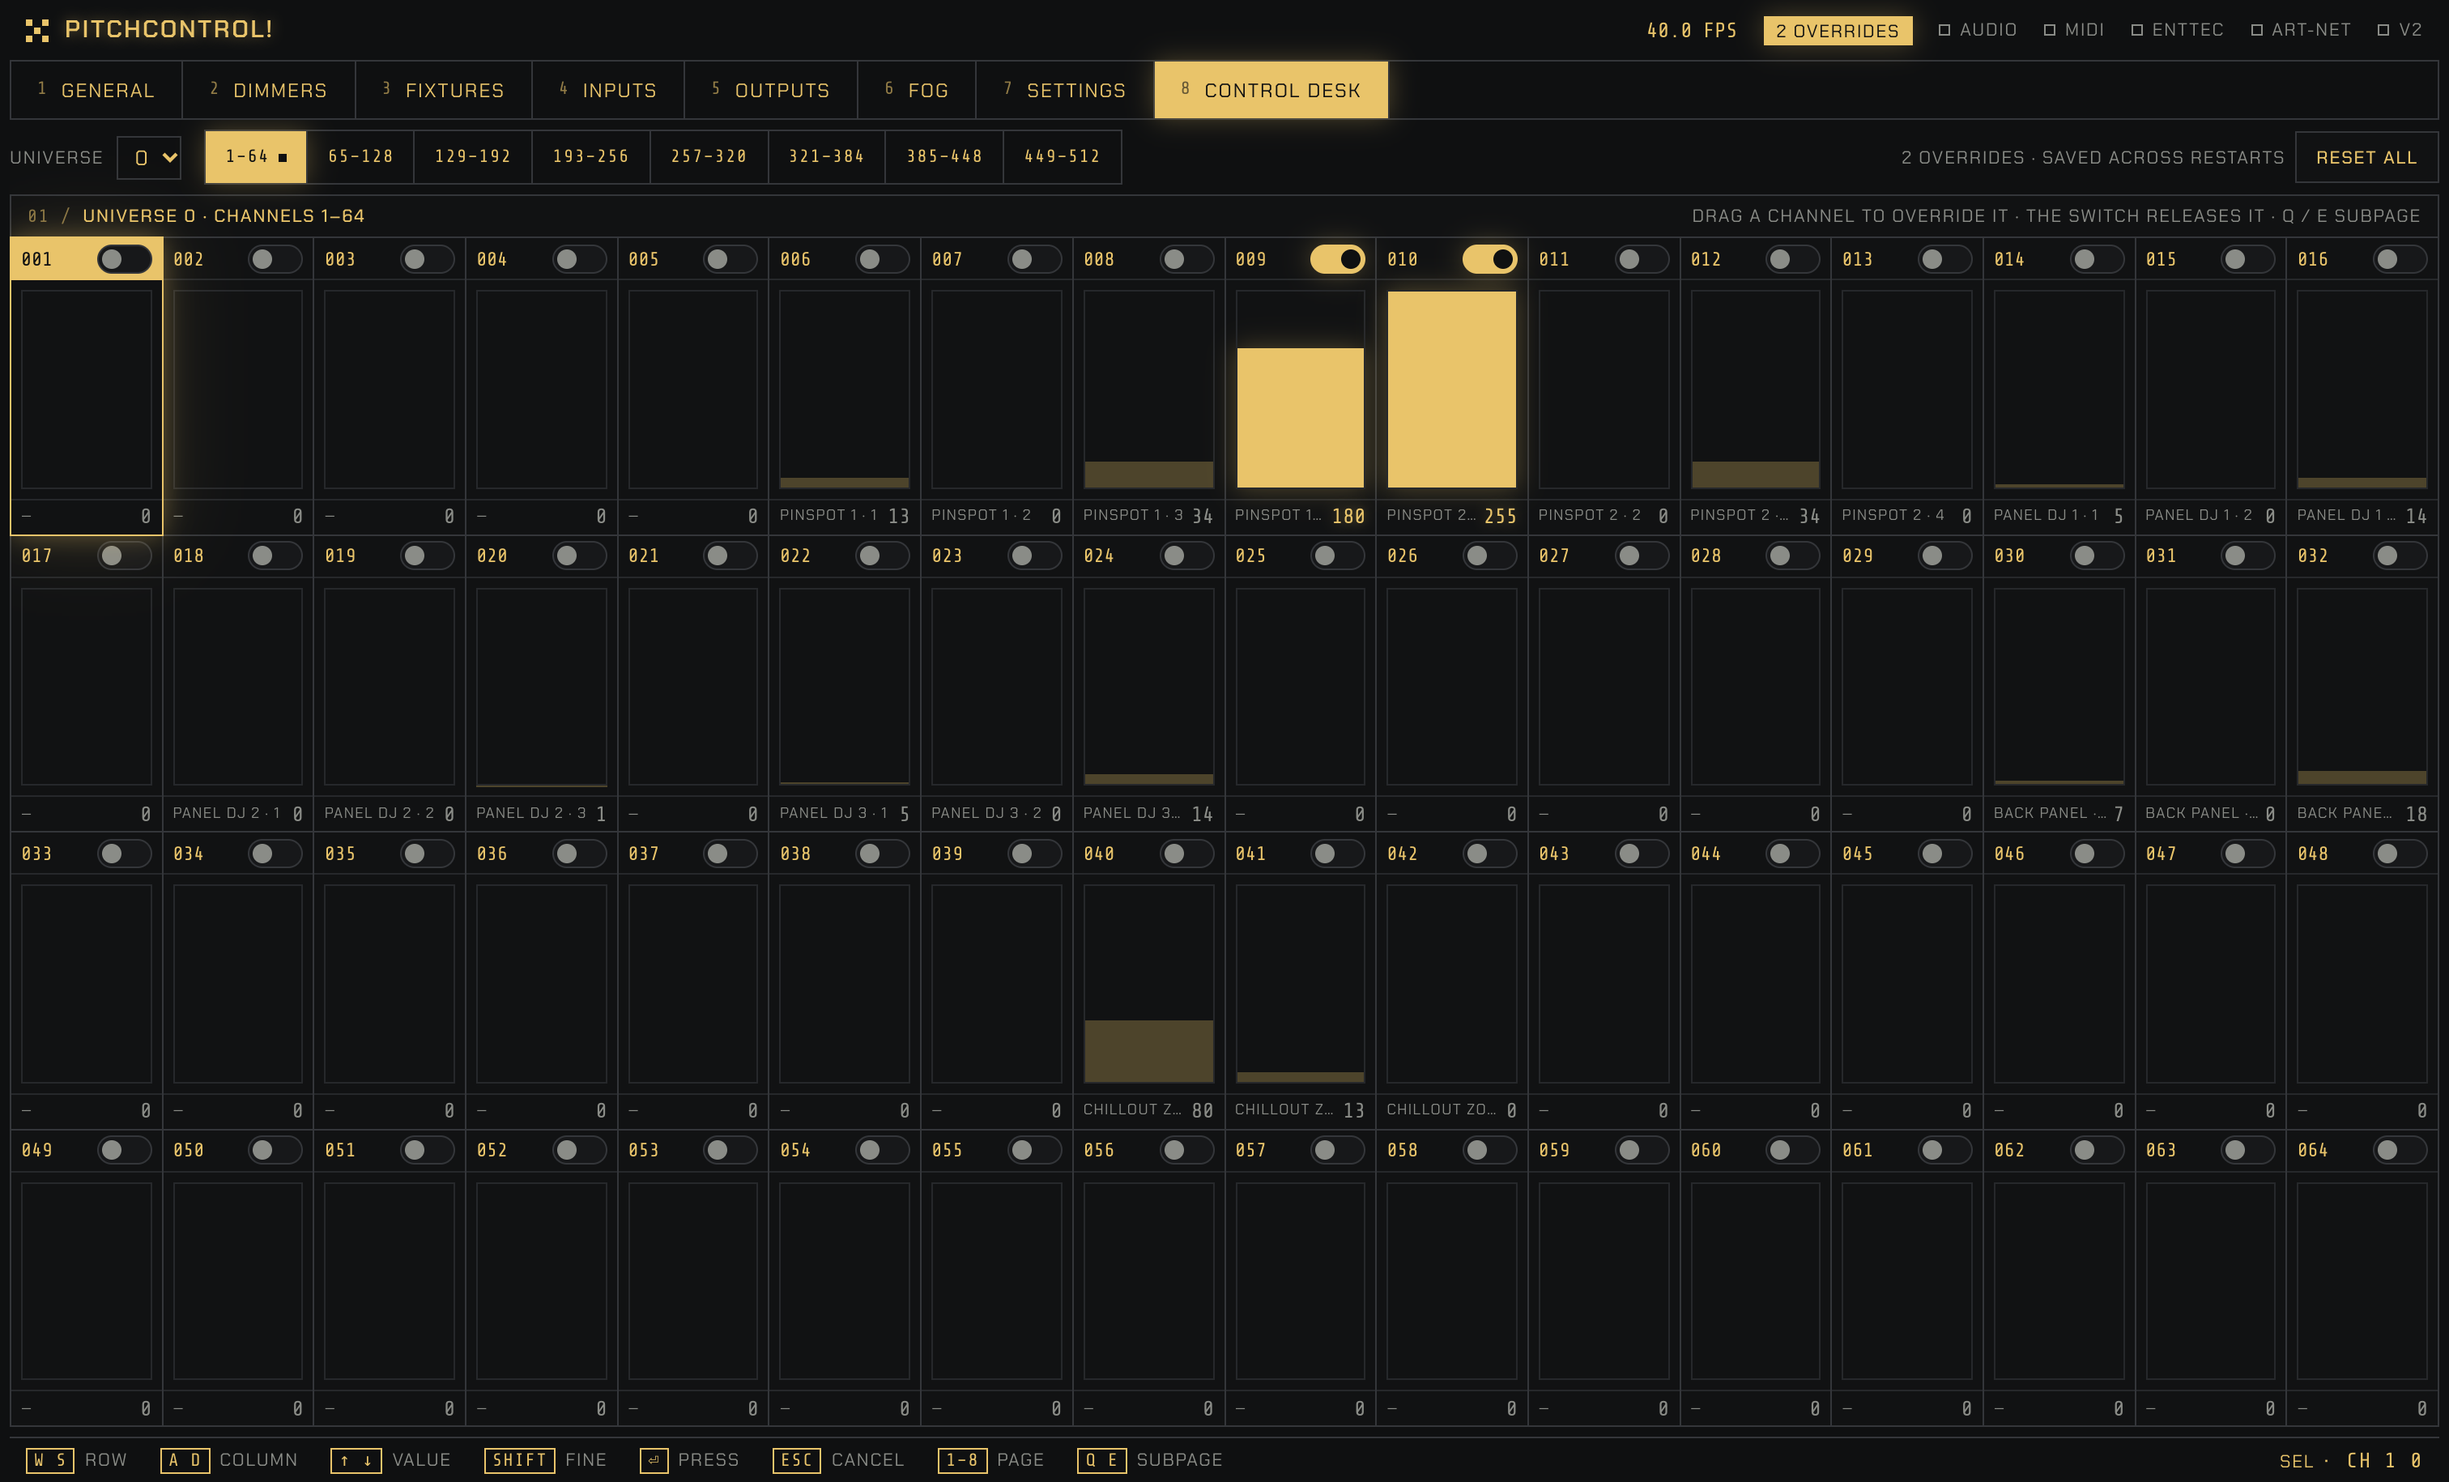
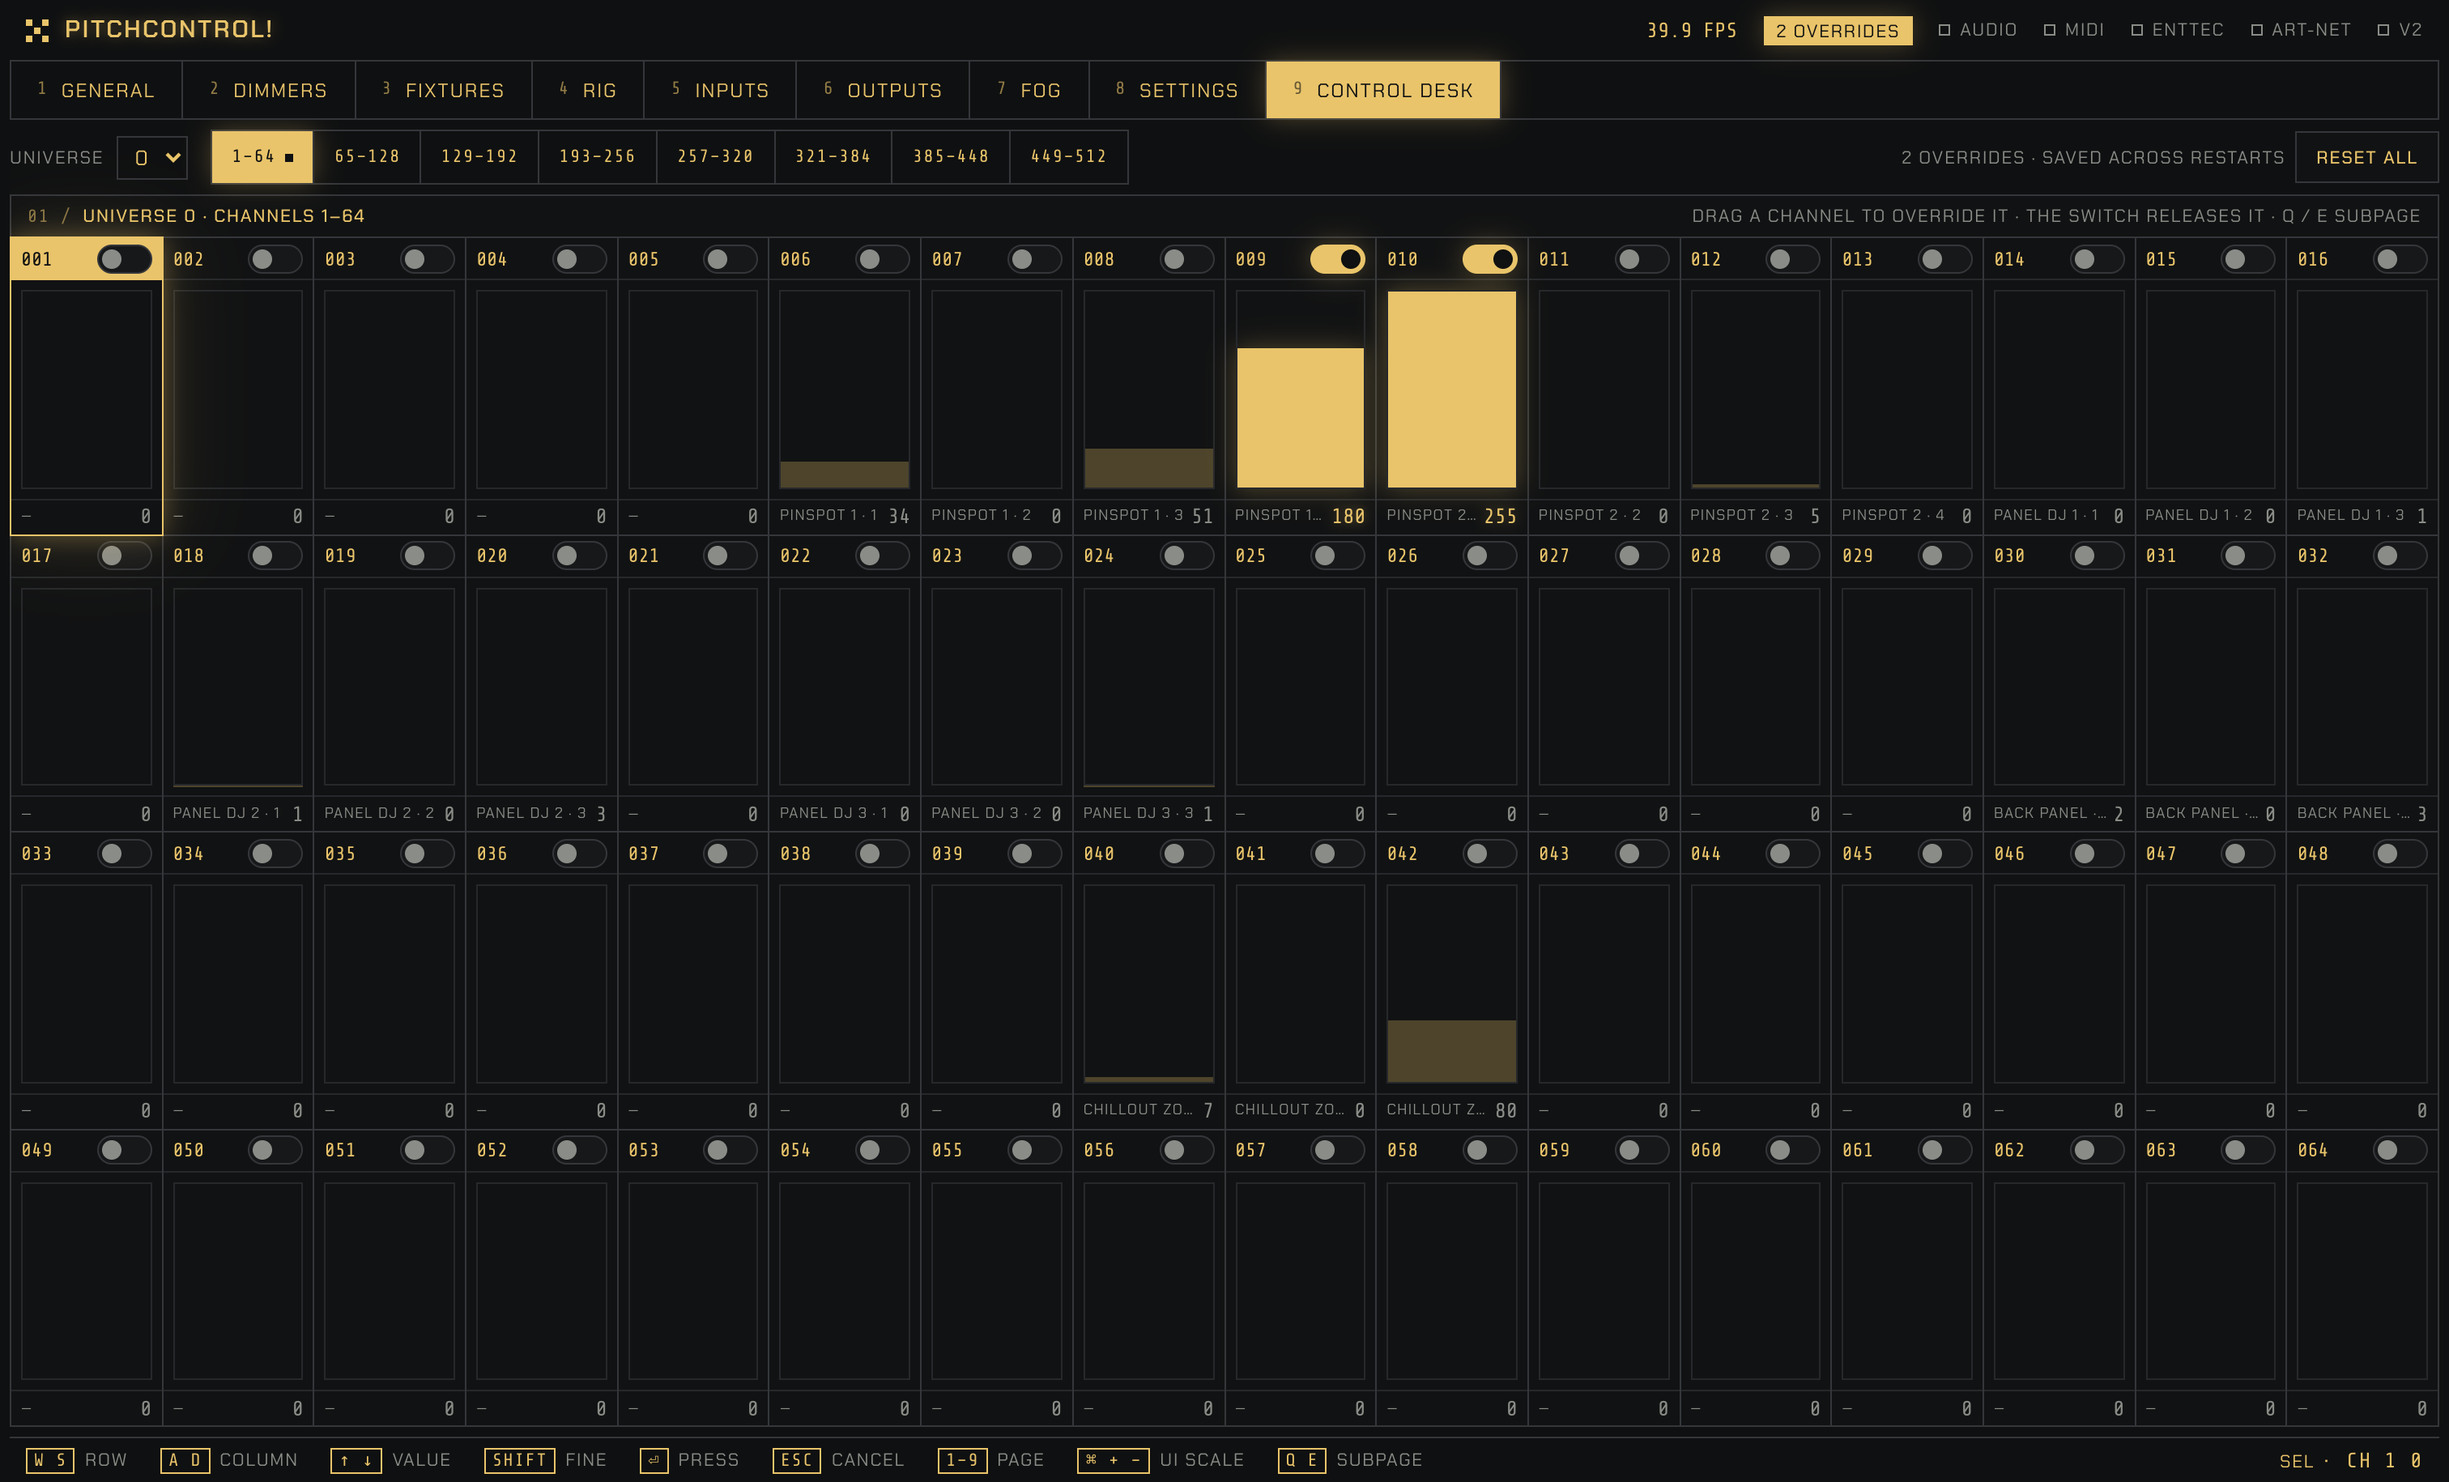
PitchControl: first start begins with scene 1; screenshots and READMEs updated

diff --git a/pitch_control/backend/tests/test_engine_api.py b/pitch_control/backend/tests/test_engine_api.py
@@ -202,3 +202,29 @@ def test_fixture_type_management(store):
     # delete: refused while used, fine otherwise
     assert client.delete("/api/fixture-types/renamed").status_code == 409
     assert client.delete("/api/fixture-types/Spot").json()["ok"] and "Spot" not in store.fixture_types
+
+
+def test_first_start_begins_with_scene_1(store):
+    # no state/macros.json yet (it is not in the repo): scene 1, not every fader at 0
+    engine = Engine(store, enable_hardware=False)
+    scene = store.load_scene(0)
+    assert scene is not None
+    assert engine.macros.control("Strobo Brightness") == scene.values["Strobo Brightness"] == 1.0
+    assert engine.macros.control("Strobo Decay") == scene.values["Strobo Decay"]
+    assert engine.macros.control("Saturation A") == 1.0  # not part of the scenes: its own default
+
+
+def test_saved_macro_values_win_over_scene_1(store):
+    first = Engine(store, enable_hardware=False)
+    first.macros.set("Strobo Brightness", 0.25)
+    first._autosave_macros(force=True)
+    again = Engine(store, enable_hardware=False)
+    assert again.macros.control("Strobo Brightness") == 0.25
+
+
+def test_first_start_without_scenes_uses_the_defaults(store):
+    for f in store.scenes_dir.glob("scene_*.json"):
+        f.unlink()
+    engine = Engine(store, enable_hardware=False)
+    assert engine.macros.control("Strobo Brightness") == 0.0
+    assert engine.macros.control("Dimmer 01") == 1.0

diff --git a/pitch_control/backend/src/pitchcontrol/engine/engine.py b/pitch_control/backend/src/pitchcontrol/engine/engine.py
@@ -240,6 +240,11 @@ class Engine:
             if state is not None:
                 self.macros.load(state.values, source=str(path))
                 log.info("restored macro values from %s", path)
+                return
+        # first start (the state folder is not in the repo): begin with scene 1, not with every
+        # fader at 0, which would be a dark room until somebody moves the brightness faders
+        if self.load_scene(0):
+            log.info("no saved macro values: started with scene 1")
 
     def _autosave_macros(self, force: bool = False) -> None:
         now = time.monotonic()

diff --git a/pitch_control/README.md b/pitch_control/README.md
@@ -4,12 +4,12 @@ Audio-reactive light control for PitchPlease, a cross-platform (macOS / Windows)
 The design and the reverse-engineered vvvv logic are documented in the wiki: [PitchControl design](../docs/wiki/port-design.md) and [vvvv patch logic](../docs/wiki/vvvv-patch-logic.md).
 
 - **Backend** (`backend/`, Python): the engine, which runs at 40 FPS in its own thread and owns audio, MIDI and all outputs. It keeps running if the browser is closed.
-- **Frontend** (`frontend/`, Vite + React + TypeScript + Tailwind): the pages General, Dimmers, Fixtures, Inputs, Outputs, Fog, Settings and Control Desk. It talks to the backend over HTTP and a WebSocket.
+- **Frontend** (`frontend/`, Vite + React + TypeScript + Tailwind): the pages General, Dimmers, Fixtures, Rig, Inputs, Outputs, Fog, Settings and Control Desk. It talks to the backend over HTTP and a WebSocket.
 - **Config** (`config/`): plain JSON, edited from the UI or by hand.
 
 ## Pages
 
-Keys 1–9 switch between the pages. Everything can be operated from the keyboard (see [Using the UI](#using-the-ui)). The screenshots were taken at the 1512 × 915 design size with amber ink, without hardware connected (so audio, MIDI and the Enttec show as off), with a synthetic techno loop feeding the audio analysis.
+Keys 1–9 switch between the pages. Everything can be operated from the keyboard (see [Using the UI](#using-the-ui)). The screenshots were taken at the 1512 × 915 design size with amber ink, without hardware connected (so audio, MIDI and the Enttec show as off), with a synthetic techno loop feeding the audio analysis. The footer at the bottom of every page shows the keys for the control under the mouse and a short explanation of it; the screenshots show it without a hovered control. On a first start the macros begin with the values of scene 1.
 
 ### 1 · General
 
@@ -46,7 +46,7 @@ Edits apply to the lights right away and mark the type unsaved; Save writes the 
 The rig: the fixtures of one event and everything that differs per fixture.
 - **Rig:** load, save, revert, rename, duplicate, create or delete rig files, and edit the description. Unsaved changes are flagged, and loading another rig asks first.
 - **Fixtures:** the list of fixtures with Add / Duplicate / Remove. Shift + click selects several to edit them together.
-- **Fixture editor:** name, type (with a summary and an "edit type" link), group, DMX universe and address, placement (position, rotation, length), dimmer, whether it reacts to strobo, colour sources and idle remap. Number fields step with ↑ / ↓ or a right-mouse drag.
+- **Fixture editor:** name, type (with a summary and an "edit type" link), group, DMX universe (a dropdown of 0–3) and address, placement (position, rotation, length), dimmer, whether it reacts to strobo, colour sources and idle remap. Number fields step with ↑ / ↓ or a right-mouse drag.
 - **Fixture type values:** gamma, the strobo colour and the named constant channels can be overridden per fixture. The checkbox switches an override on. Switched off, the field is greyed out but keeps its value, so switching it on again restores it; "default" shows the type's value, and ↺ goes back to it.
 - **Placement:** the selected fixtures highlighted in the scene preview, their live output colours and, with "show channel values", a table of the DMX channels they write.
 
@@ -61,13 +61,13 @@ The rig: the fixtures of one event and everything that differs per fixture.
 
 ![Outputs page](screenshots/outputs.png)
 
-Up to four Enttec DMX USB Pro interfaces (Add interface / Remove; each with its own device and universe), Art-Net targets (universe → IP), and the PitchPlease V2 serial output (device, baud rate, mirror mode). Live output on the right shows what every fixture sends: pixel colours and, with "show channel values", the channel table.
+Up to four Enttec DMX USB Pro interfaces (Add interface / Remove; each with its own device and universe), Art-Net targets (the app's universe 0–3 → IP, with the Art-Net universe 0–15 on the wire), and the PitchPlease V2 serial output (device, baud rate, mirror mode). Live output on the right shows what every fixture sends: pixel colours and, with "show channel values", the channel table.
 
 ### 7 · Fog
 
 ![Fog page](screenshots/fog.png)
 
-One panel per fog machine: DMX universe and channel, on / off values, a timer ("every … for … seconds"), and whether the Fog button on the General page (or the controller) fires it by hand. The header shows when it is fogging.
+One panel per fog machine: a timer ("every 60 s for 4 s"), DMX universe and channel, on / off values, and whether the Fog button on the General page (or the controller) fires it by hand. The header shows when it is fogging.
 
 ### 8 · Settings
 
@@ -76,6 +76,7 @@ One panel per fog machine: DMX universe and channel, on / off values, a timer ("
 - **Appearance:** ink colour (grey, amber, phosphor), glow, UI brightness for a dark booth, UI scale (with "Fit window" for small screens) and the key-hint footer. All of it is saved and restored next session.
 - **Keyboard:** the complete keyboard reference.
 - **App** (desktop app only): open the UI in a browser, open the data folder, start in full screen.
+- **About:** the version (with the number of commits since the last release and whether the source was modified) and links to the project and its releases.
 
 ### 9 · Control Desk
 
@@ -188,7 +189,7 @@ Hue and saturation apply on mouse release, or once keys / the MIDI knob rest; un
 | `rigs/<name>.json` | fixture instances for one event (edited on the Rig page): type, group A/B, universe/address, UV placement (rotation in degrees), dimmer, colour sources, overrides of type values as `{"enabled": …, "value": …}`; the dimmer names (`dimmer_names`) |
 | `controllers/*.json` | MIDI controller mappings (CC → macro) |
 | `scenes/scene_N.json` | the 8 scenes (macro name → control value) |
-| `state/macros.json` | auto-saved macro values for crash recovery (not in git) |
+| `state/macros.json` | auto-saved macro values, restored on start (not in git); without it (first start) the macros start with the values of scene 1 |
 | `state/overrides.json` | Control Desk channel overrides, restored on start (not in git) |
 
 Unknown keys (typos) and broken files are reported in `logs/YYMMDD_hhmmss.log` (one file per start) and never stop the engine. Keys starting with `_` (e.g. `_note`) are annotations and are ignored.
@@ -221,6 +222,6 @@ Working and covered by tests:
 
 The UI runs against the engine at 40 FPS in no-hardware mode.
 
-Verified by Miro on macOS: audio input and analysis (microphone test), the LCXL3 MIDI controller, and DMX output through the Enttec DMX USB Pro to one Cameo pinspot (2026-10-07). **Not yet verified on hardware:** Art-Net and v2 serial output, and the Windows build. Fixture details and the LCXL3 mapping were confirmed by Miro on 2026-10-05.
+Verified by Miro on macOS: audio input and analysis (microphone test), the LCXL3 MIDI controller, and DMX output through the Enttec DMX USB Pro to one Cameo pinspot (2026-10-07). On a Windows laptop the app builds and starts (Miro, 2026-10-09). **Not yet verified on hardware:** Art-Net and v2 serial output, several Enttec interfaces at once, and the Windows build with hardware connected. Fixture details and the LCXL3 mapping were confirmed by Miro on 2026-10-05.
 
 The masks match the vvvv look so far, except that Back and Forth rotates in 45° steps (vvvv: 90°); left as is for now.

diff --git a/README.md b/README.md
@@ -29,9 +29,10 @@ Audio in → PitchControl → Enttec DMX USB Pro → DMX512 → V3 light poles, 
 - JSON fixture types and rigs, edited in the app and committed with the repo;
 - a monochrome UI that works entirely from the keyboard, built for a dark DJ booth;
 - MIDI control with page switching on the Launch Control XL;
+- up to four Enttec DMX USB interfaces at once, plus Art-Net and the V2 serial output;
 - a Control Desk for manual overrides of any DMX channel.
 
-Status: audio, the Launch Control XL and Enttec DMX output have been verified on hardware. Art-Net, V2 serial output and the Windows build have not been tested yet.
+Status: audio, the Launch Control XL and Enttec DMX output have been verified on hardware, and the Windows build builds and starts on a Windows laptop. Art-Net, V2 serial output and several Enttec interfaces at once have not been tested on hardware yet.
 
 **Download:** ready-to-run builds for macOS (Apple Silicon) and Windows are on the [Releases page](https://github.com/hlavamir/PitchPlease/releases/latest); no Python or Node needed. The current version is in [CHANGELOG.md](pitch_control/CHANGELOG.md).
 

diff --git a/pitch_control/CHANGELOG.md b/pitch_control/CHANGELOG.md
@@ -6,6 +6,11 @@ features, **patch** = fixes only. Releases are tagged `pitchcontrol-vX.Y.Z`.
 
 ## Unreleased
 
+### Fixed
+- **First start:** with no saved macro values (a new checkout or install; the saved state is not in
+  the repo) all faders started at 0, so the lights stayed dark. The macros now start with the values
+  of scene 1.
+
 ### Changed
 - **Windows build script:** the window stays open at the end, the output of every step goes to
   `build-windows.log` (the window shows the step names and, on a failure, the end of the log), and
